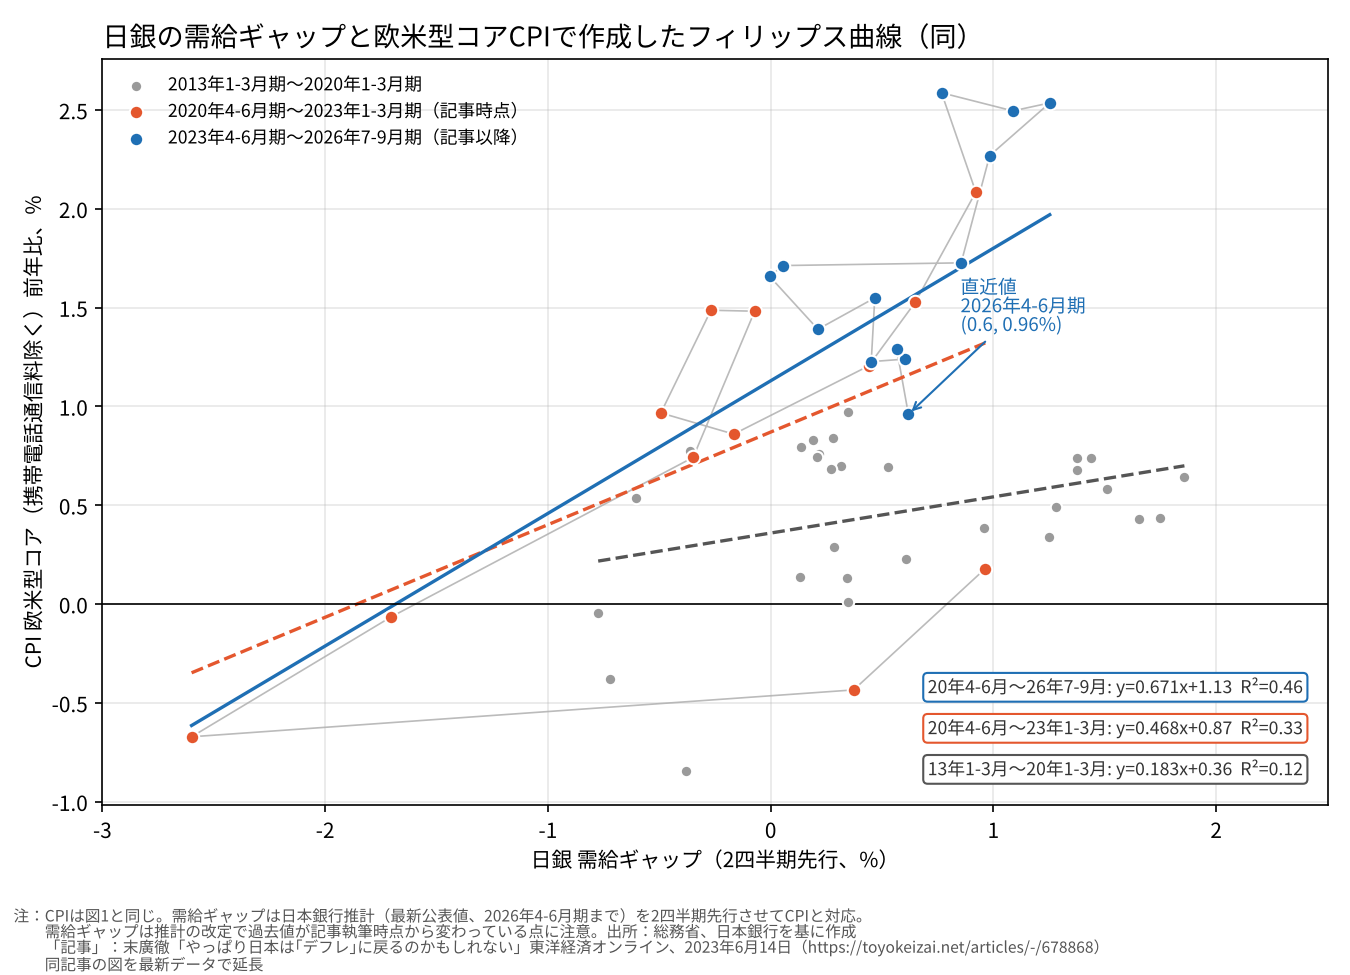
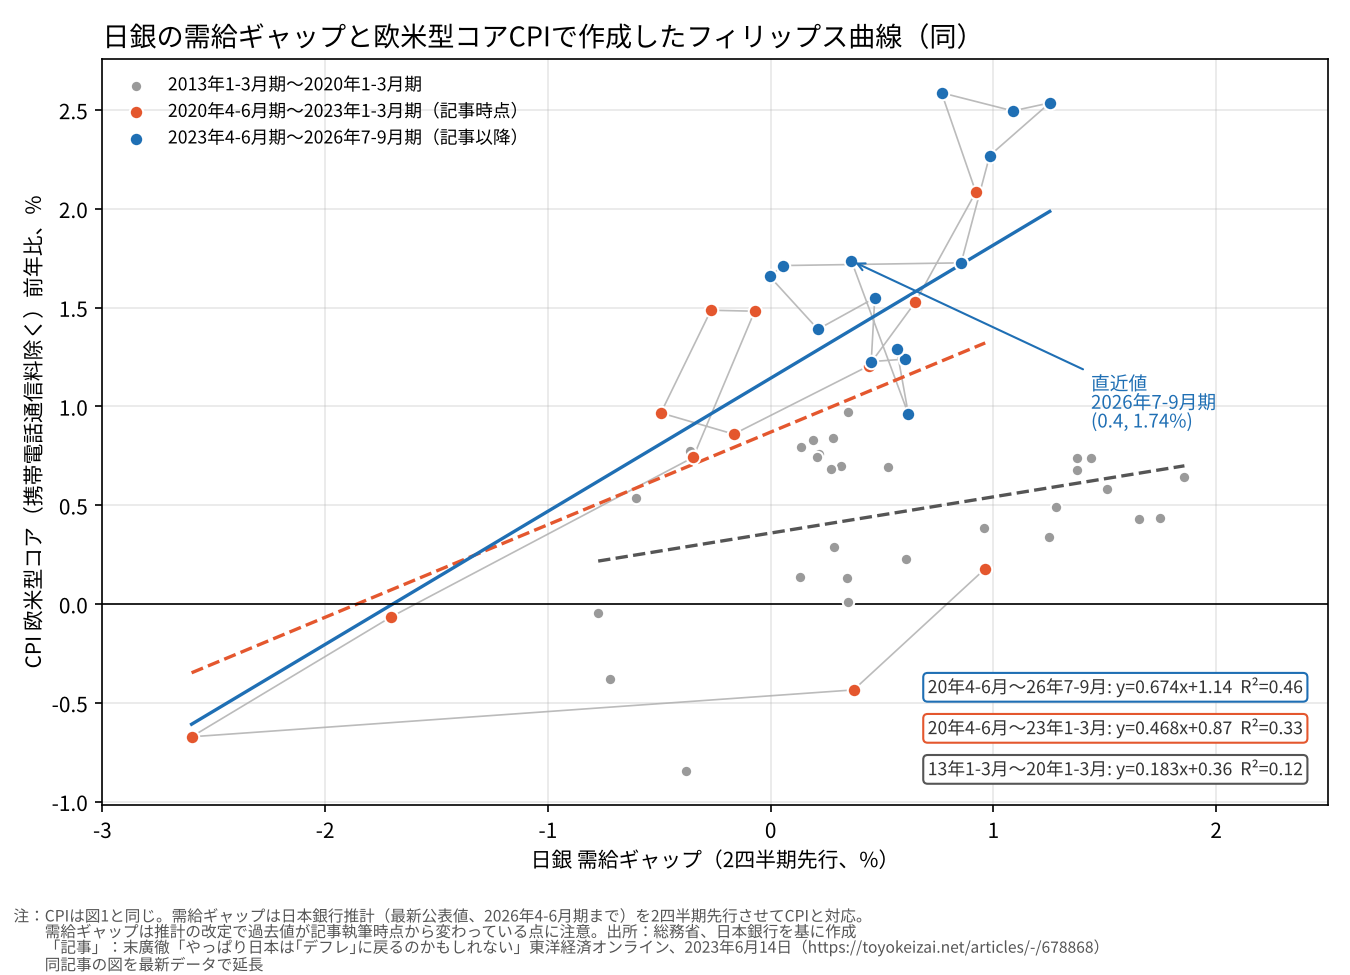
フィリップス曲線の上方シフト/01：査読を受けて改訂（共通標本での再推計、係数差の検定、傾き変化、ローリングのHAC化、主張の整理）
Claude-Session: https://claude.ai/code/session_01Lmhe5SYmSzwVdJDeN1Hioq

diff --git a/フィリップス曲線の上方シフト/code/reg_rev.py b/フィリップス曲線の上方シフト/code/reg_rev.py
@@ -1,0 +1,43 @@
+# 改訂版：共通標本でのシフト推計、係数差のブロックブートストラップ、傾き変化モデル
+import pandas as pd, numpy as np, statsmodels.api as sm
+d=pd.read_csv('panel2.csv',index_col=0); d.index=pd.PeriodIndex(d.index,freq='Q')
+D=['D_tax14','D_tax19','D_covid']; X={'DI':'cons_DI','GAP':'gap_lead2'}
+HAC=dict(cov_type='HAC',cov_kwds={'maxlags':4})
+def fit(t,x,inter=False):
+    t=t.copy(); cols=[x,'imp_l24']+D+['D_shift']
+    if inter: t['DX']=t['D_shift']*t[x]; cols=cols+['DX']
+    return sm.OLS(t.core_exmob,sm.add_constant(t[cols])).fit(**HAC)
+rows=[]; boot={}
+rng=np.random.default_rng(0)
+for a in ['2004Q1','2013Q1']:
+    t=d.loc[a:,['core_exmob','cons_DI','gap_lead2','imp_l24']+D+['D_shift']].dropna()
+    ms={k:fit(t,x) for k,x in X.items()}
+    for k,m in ms.items():
+        b,se=m.params.D_shift,m.bse.D_shift
+        rows.append(dict(start=a,x=k,n=int(m.nobs),shift=b,se=se,lo=b-1.96*se,hi=b+1.96*se,p=m.pvalues.D_shift))
+    # moving block bootstrap of the difference (block=4)
+    n=len(t); L=4; diffs=[]
+    for _ in range(2000):
+        starts=rng.integers(0,n-L+1,size=int(np.ceil(n/L)))
+        idx=np.concatenate([np.arange(s,s+L) for s in starts])[:n]
+        tb=t.iloc[idx]
+        if tb.D_shift.nunique()<2: continue
+        try:
+            Dv=[c for c in D if tb[c].nunique()>1]
+            bd=[sm.OLS(tb.core_exmob,sm.add_constant(tb[[x,'imp_l24']+Dv+['D_shift']],has_constant='add')).fit().params['D_shift'] for x in X.values()]
+            diffs.append(bd[1]-bd[0])
+        except Exception: pass
+    diffs=np.array(diffs); dpt=ms['GAP'].params.D_shift-ms['DI'].params.D_shift
+    boot[a]=(dpt,np.percentile(diffs,2.5),np.percentile(diffs,97.5),len(diffs))
+    # slope-change model: shift at post-period mean of x
+    for k,x in X.items():
+        m=fit(t,x,inter=True); xm=t.loc[t.D_shift==1,x].mean()
+        g=np.zeros(len(m.params)); names=list(m.params.index); g[names.index('D_shift')]=1; g[names.index('DX')]=xm
+        est=g@m.params.values; se=np.sqrt(g@m.cov_params().values@g)
+        rows.append(dict(start=a,x=k+'_slope',n=int(m.nobs),shift=est,se=se,lo=est-1.96*se,hi=est+1.96*se,p=np.nan,theta=m.params.DX,theta_p=m.pvalues.DX,xmean=xm))
+r=pd.DataFrame(rows); r.to_csv('shift_est_rev.csv',index=False); print(r.round(3).to_string())
+print('difference GAP-DI (point, 95% block-bootstrap CI, reps):'); [print(k,np.round(v,3)) for k,v in boot.items()]
+pd.DataFrame([dict(start=k,diff=v[0],lo=v[1],hi=v[2],reps=v[3]) for k,v in boot.items()]).to_csv('shift_diff_rev.csv',index=False)
+# range overlap
+pre=d.loc['2013Q1':'2019Q4']; post=d.loc['2022Q2':]
+for x in X.values(): print(x,'pre',pre[x].min().round(2),pre[x].max().round(2),'post',post[x].min().round(2),post[x].max().round(2),'post share inside pre range',((post[x]>=pre[x].min())&(post[x]<=pre[x].max())).mean().round(2))

diff --git a/フィリップス曲線の上方シフト/code/plot_shift.py b/フィリップス曲線の上方シフト/code/plot_shift.py
@@ -22,5 +22,5 @@ for i,lab in enumerate(labs):
 ax.axhline(0,color='black',lw=0.9); ax.set_xticks(range(len(labs))); ax.set_xticklabels(labs,fontsize=11); ax.set_xlim(-0.6,1.6)
 ax.set_ylabel('2022年4-6月期以降の上振れ幅（%ポイント）'); ax.grid(axis='y',alpha=0.3); ax.legend(frameon=False,fontsize=9,loc='upper left')
 ax.set_title('物差しによって変わる「上方シフト」の大きさ',loc='left',fontsize=13)
-fig.text(0.01,0.005,'注：欧米型コアCPI（携帯除く）前年比を、需給・輸入物価（2〜4期前）・消費税とコロナ期のダミー・2022年4-6月期以降のダミーで回帰したときの\n　　最後のダミーの係数。縦線は95%信頼区間（HAC標準誤差）で、0をまたがなければ統計的に有意。出所：総務省、日本銀行を基に作成',fontsize=7.5,color='#555555')
+fig.text(0.01,0.005,'注：欧米型コアCPI（携帯除く）前年比を、需給・輸入物価（2〜4期前）・消費税とコロナ期のダミー・2022年4-6月期以降のダミーで回帰したときの最後のダミーの係数。\n　　2つの物差しで同じ標本（共通の四半期）を使用。縦線は95%信頼区間（HAC標準誤差）で、0をまたがなければ統計的に有意。出所：総務省、日本銀行を基に作成',fontsize=7.5,color='#555555')
 plt.tight_layout(rect=(0,0.07,1,1)); plt.savefig(os.path.join(here,'..','01_chart_shift.png'),dpi=150)

diff --git a/フィリップス曲線の上方シフト/code/wage_cum.py b/フィリップス曲線の上方シフト/code/wage_cum.py
@@ -1,0 +1,17 @@
+# 賃金ラグ（0〜7期）を一括投入した累積効果と、賃金とDIのVIF
+import pandas as pd, numpy as np, statsmodels.api as sm
+from statsmodels.stats.outliers_influence import variance_inflation_factor as vif
+d=pd.read_csv('panel3.csv',index_col=0); d.index=pd.PeriodIndex(d.index,freq='Q')
+for k in range(8): d[f'w{k}']=d.wage.shift(k)
+W=[f'w{k}' for k in range(8)]
+out=[]
+for y,D in [('core_exmob',['D_tax14','D_tax19','D_covid','D_shift']),('gsvc',['D_tax14','D_tax19','D_covid2','D_shift'])]:
+    for a in ['2004Q1','2013Q1']:
+        for di in [True,False]:
+            cols=(['cons_DI'] if di else [])+W+(['imp_l24'] if y=='core_exmob' else [])+D
+            t=d.loc[a:,[y]+cols].dropna(); m=sm.OLS(t[y],sm.add_constant(t[cols])).fit(cov_type='HAC',cov_kwds={'maxlags':4})
+            g=np.array([1.0 if c in W else 0.0 for c in m.params.index]); s=g@m.params.values; se=np.sqrt(g@m.cov_params().values@g)
+            out.append(dict(y=y,start=a,DI=di,n=int(m.nobs),cum=s,lo=s-1.96*se,hi=s+1.96*se))
+r=pd.DataFrame(out); r.to_csv('wage_cum.csv',index=False); print(r.round(3).to_string())
+t=d.loc['2004Q1':,['cons_DI','w4']].dropna(); X=sm.add_constant(t)
+print('VIF DI,wage(lag4):',[round(vif(X.values,i),2) for i in (1,2)], 'corr',round(t.corr().iloc[0,1],2))

diff --git a/フィリップス曲線の上方シフト/code/reg2.py b/フィリップス曲線の上方シフト/code/reg2.py
@@ -14,7 +14,7 @@ idx=d.dropna(subset=['core_exmob','cons_DI','imp_l24','wage_l1']).index
 for i in range(40,len(idx)+1):
     w=idx[i-40:i]; s=d.loc[w]
     cols=['cons_DI','imp_l24']+[c for c in D if s[c].nunique()>1]
-    m=sm.OLS(s.core_exmob,sm.add_constant(s[cols])).fit()
+    m=sm.OLS(s.core_exmob,sm.add_constant(s[cols])).fit(cov_type='HAC',cov_kwds={'maxlags':4})
     pos=m.params['const']+m.params['cons_DI']*(-15)
     se=np.sqrt(np.array([1,-15])@m.cov_params().loc[['const','cons_DI'],['const','cons_DI']].values@np.array([1,-15]))
     out.append((w[-1],pos,se,m.params['cons_DI']))

diff --git a/フィリップス曲線の上方シフト/code/build.py b/フィリップス曲線の上方シフト/code/build.py
@@ -24,7 +24,7 @@ g=pd.read_excel('gap.xlsx',sheet_name='data1',header=None).iloc[5:,[0,1]]
 g.columns=['q','gap']; g=g.dropna()
 g.index=pd.PeriodIndex([x.split('.')[0]+'Q'+x.split('.')[1][0] for x in g.q.astype(str)],freq='Q')
 g=g['gap'].astype(float)
-out=q.join(t['cons_DI']).join(g.shift(2).rename('gap_lead2'))
+out=q.join(t['cons_DI']).join(pd.Series(g.values,index=g.index+2,name='gap_lead2'))
 out=out[(out.index>=pd.Period('2004Q1'))]
 out.to_csv('panel.csv')
 print(out.loc['2012Q4':].round(2).to_string())
